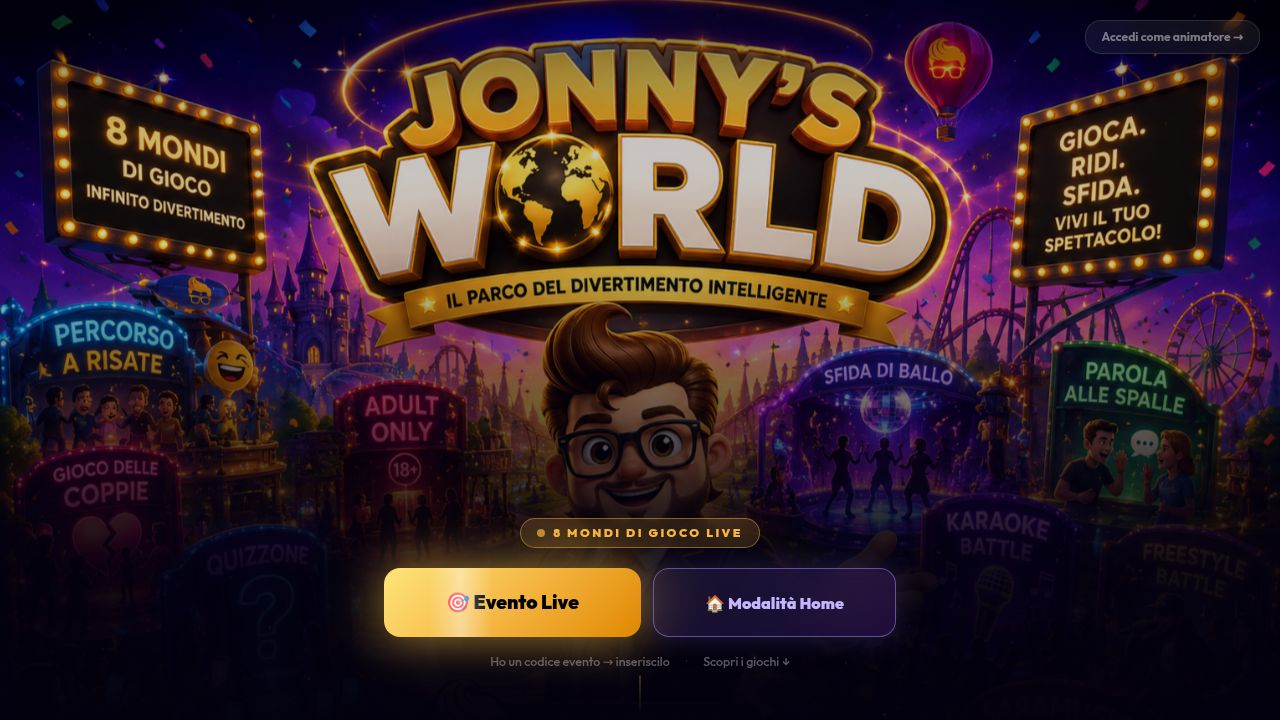
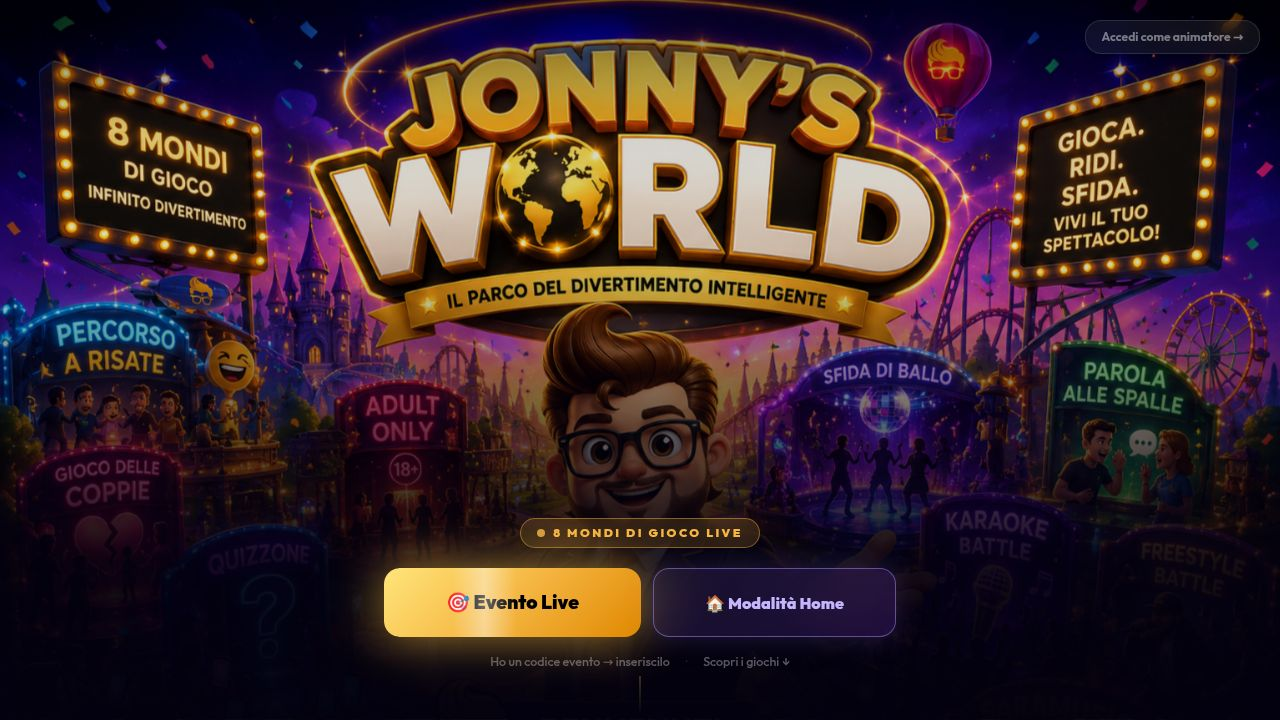
Improve game flow by syncing sessions and auto-starting questions
Sync session IDs between presenter and game, remove strict session filtering in game, and auto-start the first question upon initialization.

Replit-Commit-Author: Agent
Replit-Commit-Session-Id: 80633c6a-172e-48b8-94f5-9120495b0319
Replit-Commit-Checkpoint-Type: full_checkpoint
Replit-Commit-Event-Id: 58969bed-d3ba-4aa7-b018-8ec1e2b4d3e8
Replit-Commit-Screenshot-Url: https://storage.googleapis.com/screenshot-production-us-central1/a91d5a86-5714-4c48-91cd-accaafef621f/80633c6a-172e-48b8-94f5-9120495b0319/Ef6qJac
Replit-Helium-Checkpoint-Created: true

diff --git a/artifacts/ideagame/src/pages/LiveControl.tsx b/artifacts/ideagame/src/pages/LiveControl.tsx
@@ -376,6 +376,10 @@ export default function LiveControl() {
       on('game:ended', refreshSessions),
       on('game:paused', refreshSessions),
       on('round:changed', refreshSessions),
+      on<{ slug: string; sessionId: string; eventId: string }>('hub:start-game', ({ sessionId }) => {
+        setSelectedSessionId(sessionId);
+        refreshSessions();
+      }),
       on<{ count: number }>('quiz:answer_received', ({ count }) => {
         setQuizzoneResponseCount(count);
       }),
@@ -1721,7 +1725,21 @@ export default function LiveControl() {
         headers: { 'Content-Type': 'application/json' },
         body: JSON.stringify({ packId: selectedPackId }),
       });
-      setQuizzoneMsg('✓ Pack inizializzato!');
+      // Auto-start first question immediately after init
+      await apiFetch(`/quizzone/sessions/${session.id}/question`, {
+        method: 'POST',
+        headers: { 'Content-Type': 'application/json' },
+        body: JSON.stringify({ packId: selectedPackId, roundIndex: 0 }),
+      });
+      const round = packDetail?.generatedJson?.[0];
+      setTime(round?.timeLimit ?? 30);
+      setTimerPaused(false);
+      setQuizzoneRoundIdx(0);
+      setQuizzoneRevealed(false);
+      setQuizzoneActive(true);
+      setQuizzoneResponseCount(0);
+      setRevealAnswer(false);
+      setQuizzoneMsg('✓ Domanda 1 avviata!');
     } catch (e) {
       const msg = (e as Error).message;
       setError(msg);

diff --git a/artifacts/ideagame/src/pages/GameQuizzone.tsx b/artifacts/ideagame/src/pages/GameQuizzone.tsx
@@ -87,19 +87,21 @@ export default function GameQuizzone() {
   useEffect(() => { void fetchState(); }, [fetchState]);
 
   useEffect(() => {
-    if (!sessionId) return;
+    if (!eventId) return;
     const unsubs = [
       on<QuizzoneState & { sessionId: string }>('quiz:question', (data) => {
-        if (data.sessionId !== sessionId) return;
         setReveal(null);
         setState(prev => ({ ...prev!, ...data, hasQuestion: true }));
         if (data.questionStartedAt && data.timeLimit) startCountdown(data.questionStartedAt, data.timeLimit);
         setResponseCount(0);
+        setGameEnded(false);
         playLoop('tension_loop');
+      }),
+      on<{ sessionId: string }>('quiz:started', () => {
+        setState(prev => prev ? { ...prev, status: 'running' } : null);
       }),
       on<{ sessionId: string; roundIndex: number; correctAnswer: number; explanation: string; scores: RevealState['scores'] }>(
         'quiz:reveal', (data) => {
-          if (data.sessionId !== sessionId) return;
           setReveal({ roundIndex: data.roundIndex, correctAnswer: data.correctAnswer, explanation: data.explanation, scores: data.scores });
           if (timerRef.current) clearInterval(timerRef.current);
           setTimeLeft(0);
@@ -107,18 +109,16 @@ export default function GameQuizzone() {
           playLoop('round_loop');
         }),
       on<{ count: number; sessionId: string }>('quiz:answer_received', (data) => {
-        if (data.sessionId !== sessionId) return;
         setResponseCount(data.count);
       }),
-      on<{ sessionId: string }>('quiz:ended', (data) => {
-        if (data.sessionId !== sessionId) return;
+      on<{ sessionId: string }>('quiz:ended', () => {
         setGameEnded(true);
         if (timerRef.current) clearInterval(timerRef.current);
         playStinger('winner_stinger');
       }),
     ];
     return () => { unsubs.forEach(u => u()); };
-  }, [sessionId, on, startCountdown]);
+  }, [eventId, on, startCountdown]);
 
   useEffect(() => {
     pollRef.current = setInterval(() => { void fetchState(); }, 5000);